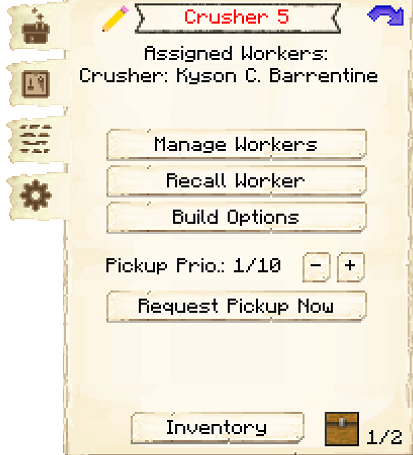
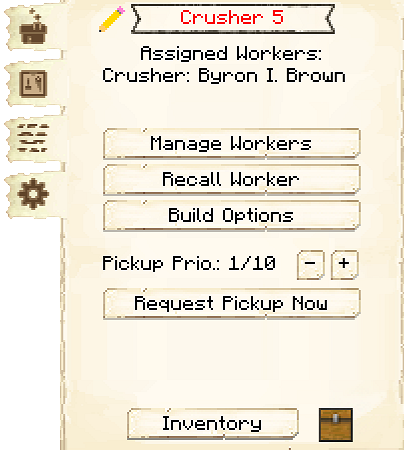
Remove blue arrow (#830)
Removed blue arrow and updated Settings page.

diff --git a/pages/src/source/buildings/crusher.md b/pages/src/source/buildings/crusher.md
@@ -39,10 +39,8 @@ The higher the level of the Crusher's Hut, the more daily output the Crusher can
 
 {% include contentblock/building/main-gui.html header="When accessing the Crusher's Hut block by right-clicking on it, you will see a GUI with different options. You start on the main tab:" image="../../assets/images/gui/crushergui1.png" %}
 
-{% include contentblock/building/other-gui.html header="Clicking on the blue arrow on the first page will bring you to <strong>Missing</strong>." content="Here you can set what you want the Crusher to crush and how many blocks per day. (See the above lists.) Be sure to click save at the bottom after you make changes." image="../../assets/images/gui/crushergui2.png" %}
+{% include contentblock/building/other-gui.html header="The second tab of the GUI is <strong>Crafting Recipes</strong>." content="Here you can see all the crafting recipes this hut knows.  The arrows allow you to move them up or down in priority.  You are also able to disable specific recipes." image="../../assets/images/gui/crushergui3.png" %}
 
-{% include contentblock/building/other-gui.html header="The third tab of the GUI is <strong>Crafting Recipes</strong>." content="Here you can see all the crafting recipes this hut knows.  The arrows allow you to move them up or down in priority.  You are also able to disable specific recipes." image="../../assets/images/gui/crushergui3.png" %}
+{% include contentblock/building/other-gui.html header="The third tab of the GUI is <strong>Tasks</strong>." content="This tab shows you any requests the hut is working on, and where it is going." image="../../assets/images/gui/crushergui4.png" %}
 
-{% include contentblock/building/other-gui.html header="The fourth tab of the GUI is <strong>Tasks</strong>." content="This tab shows you any requests the hut is working on, and where it is going." image="../../assets/images/gui/crushergui4.png" %}
-
-{% include contentblock/building/settings-gui.html key="crusher" header="The fifth tab of the GUI is <strong>Settings</strong>." image="../../assets/images/gui/crushergui5.png" %}
+{% include contentblock/building/settings-gui.html key="crusher" header="The fourth tab of the GUI is <strong>Settings</strong>." image="../../assets/images/gui/crushergui5.png" %}
